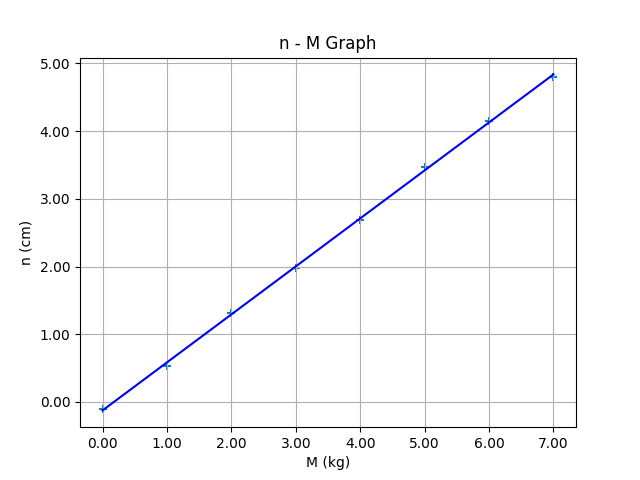
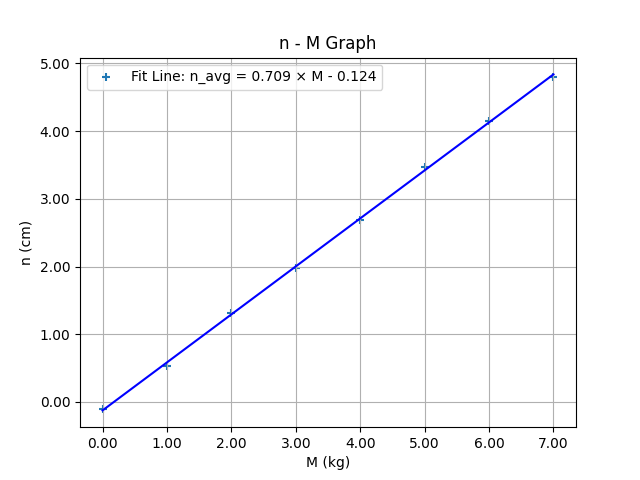
Add legend to fig2

Changed region(s): [[0.1562, 0.125, 0.5938, 0.1875]]

diff --git a/exp2/scripts/charting_toolkit.py b/exp2/scripts/charting_toolkit.py
@@ -42,14 +42,19 @@ def generate_chart(result_path, output_path):
     fit_line = slope * df['m'] + intercept
     plt.plot(df['m'], fit_line, color='blue')
     if intercept >= 0:
-        print(f'Fit Line: n_avg = {slope:.3g} × M + {intercept:.3g}')
+        s = f'Fit Line: n_avg = {slope:.3g} × M + {intercept:.3g}'
+        plt.legend([s], loc='upper left')
+        print(s)
     else:
-        print(f'Fit Line: n_avg = {slope:.3g} × M - {abs(intercept):.3g}')
+        s = f'Fit Line: n_avg = {slope:.3g} × M - {abs(intercept):.3g}'
+        plt.legend([s], loc='upper left')
+        print(s)
 
     # 设置坐标轴刻度标签格式（均为3位有效数字）
     plt.gca().xaxis.set_major_formatter(FormatStrFormatter('%.2f'))
     plt.gca().yaxis.set_major_formatter(FormatStrFormatter('%.2f'))
     plt.savefig(output_path)
+
     print(f'The n-M graph saved to ./{output_path}')
     plt.close()
 
